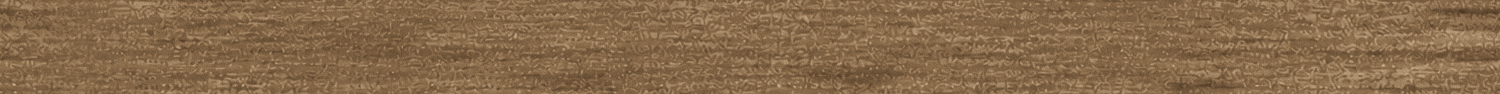
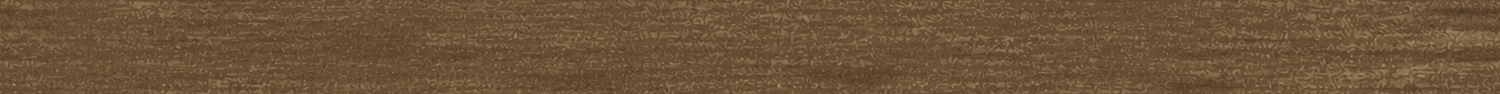
ダート: 地面の明るさを下げる — 「走り方が芝と違う」の 3 回目の原因は明るさだった
★オーナー指摘（3 回目）「ダートの時の走り方が芝コースと違って見えます」。
★1 回目は正面の地面・2 回目は横の板でした。★今回は**どちらでもありません**。

【★前便の検定が見ていなかった量（R-22）】
  ★前便はタイル単体の絶対 sd を測り、芝 4.24 / ダート 4.08 で「一致」としました。
  ⚠ ★しかし画面に出るのはタイル＋上塗り（SHADE / TRACK_TINT）の合成で、
     ★見た目のコントラストは「地面の明るさに対する比」です（Weber）。
  ★実画面の実測（seed 42・6 場面）:
       明るさ 芝 97 → ダート 115 ／ 相対コントラスト 13.09% → 10.30%（芝の 79%）
  → ★絶対の振れは足りていた。平均が明るすぎた。

【★なぜ掛け算ではないか】
  ⚠ ★RGB を一律 k 倍しても平均と sd が同じだけ縮むので、比は 1 ミリも動きません。
     ★上塗りは掛け算の外の加算項なので、掛け算だけすると比はかえって下がります
     （試算 10.4% → 8.5%）。
  → ★幅を保ったまま平均を下げる。役割を 1 段暗い側へ送り、明るい側は据え置いて
     ★幅はむしろ広げました（64 → 89）。

【変えたもの】★描画だけ。着順・タイム・着差・払戻に触れていません（憲法 3/4）
  ・地面タイル  dirt-2→dirt-1→dirt-0  ⇒  dirt-3→dirt-2→dirt-0
  ・横の板      dirt-3→dirt-1→#d2b896 ⇒  dirt-3→dirt-2→dirt-0
    ⚠ ★#d2b896 は 16 進の直書きでした。★役割名で引く規則（裁定 §6-4 条件 3）に戻しました
  ・ASSET_VERSION 57 → 58（★据え置くと古い manifest が返ります）

【結果】★芝の 79% → 95%
  20s side-drive        17.67% → 17.56%   ★一致
  26s straight-contest  18.17% → 17.40%   ★一致
  38s straight-contest  17.79% → 17.52%   ★一致
  44s finish-line       17.50% → 17.28%   ★一致
  14s first-corner-front 3.59% →  2.35%   ★65%（残る）
  32s homestretch-front  3.80% →  2.32%   ★61%（残る）

⚠ ★正面の 2 カットは「直った」と書きません。★半分です。
   ★原因は特定済み: `drawMowStripes` が馬場を一切見ておらず、
   ★芝の緑の縞（#eaffd0 / #0d2408）がダートの上に乗っています。
   ★`mowStripes: false` を渡す製品側の呼び出しは 0 件です。
   ★直すとダートの見た目が変わるので、演出の判断としてオーナーへ回します。

【★芝は 1 画素も変えていません】`git status` で turf 系の変更が 0 件であることを確認済み。

【検証】
  npm test        → 126 ファイル / 1237 件 PASS / EXIT=0（★git add してから実行）
[…]

diff --git a/apps/web/src/app/race/page.tsx b/apps/web/src/app/race/page.tsx
@@ -130,7 +130,7 @@ function drawRendererBadge(ctx: CanvasRenderingContext2D, kind: RendererKind, st
 }
 const STRATS: readonly Strategy[] = ['nige', 'senko', 'sashi', 'oikomi'];
 /** ★素材を足したら必ず上げる。★`manifest.json` の中身を変えたときも（古いものがキャッシュされる） */
-const ASSET_VERSION = '57';
+const ASSET_VERSION = '58';
 /**
  * ★コマごとの持ち上げ量。**単位は「基準画布（高さ 1536px）での px」**。
  *
